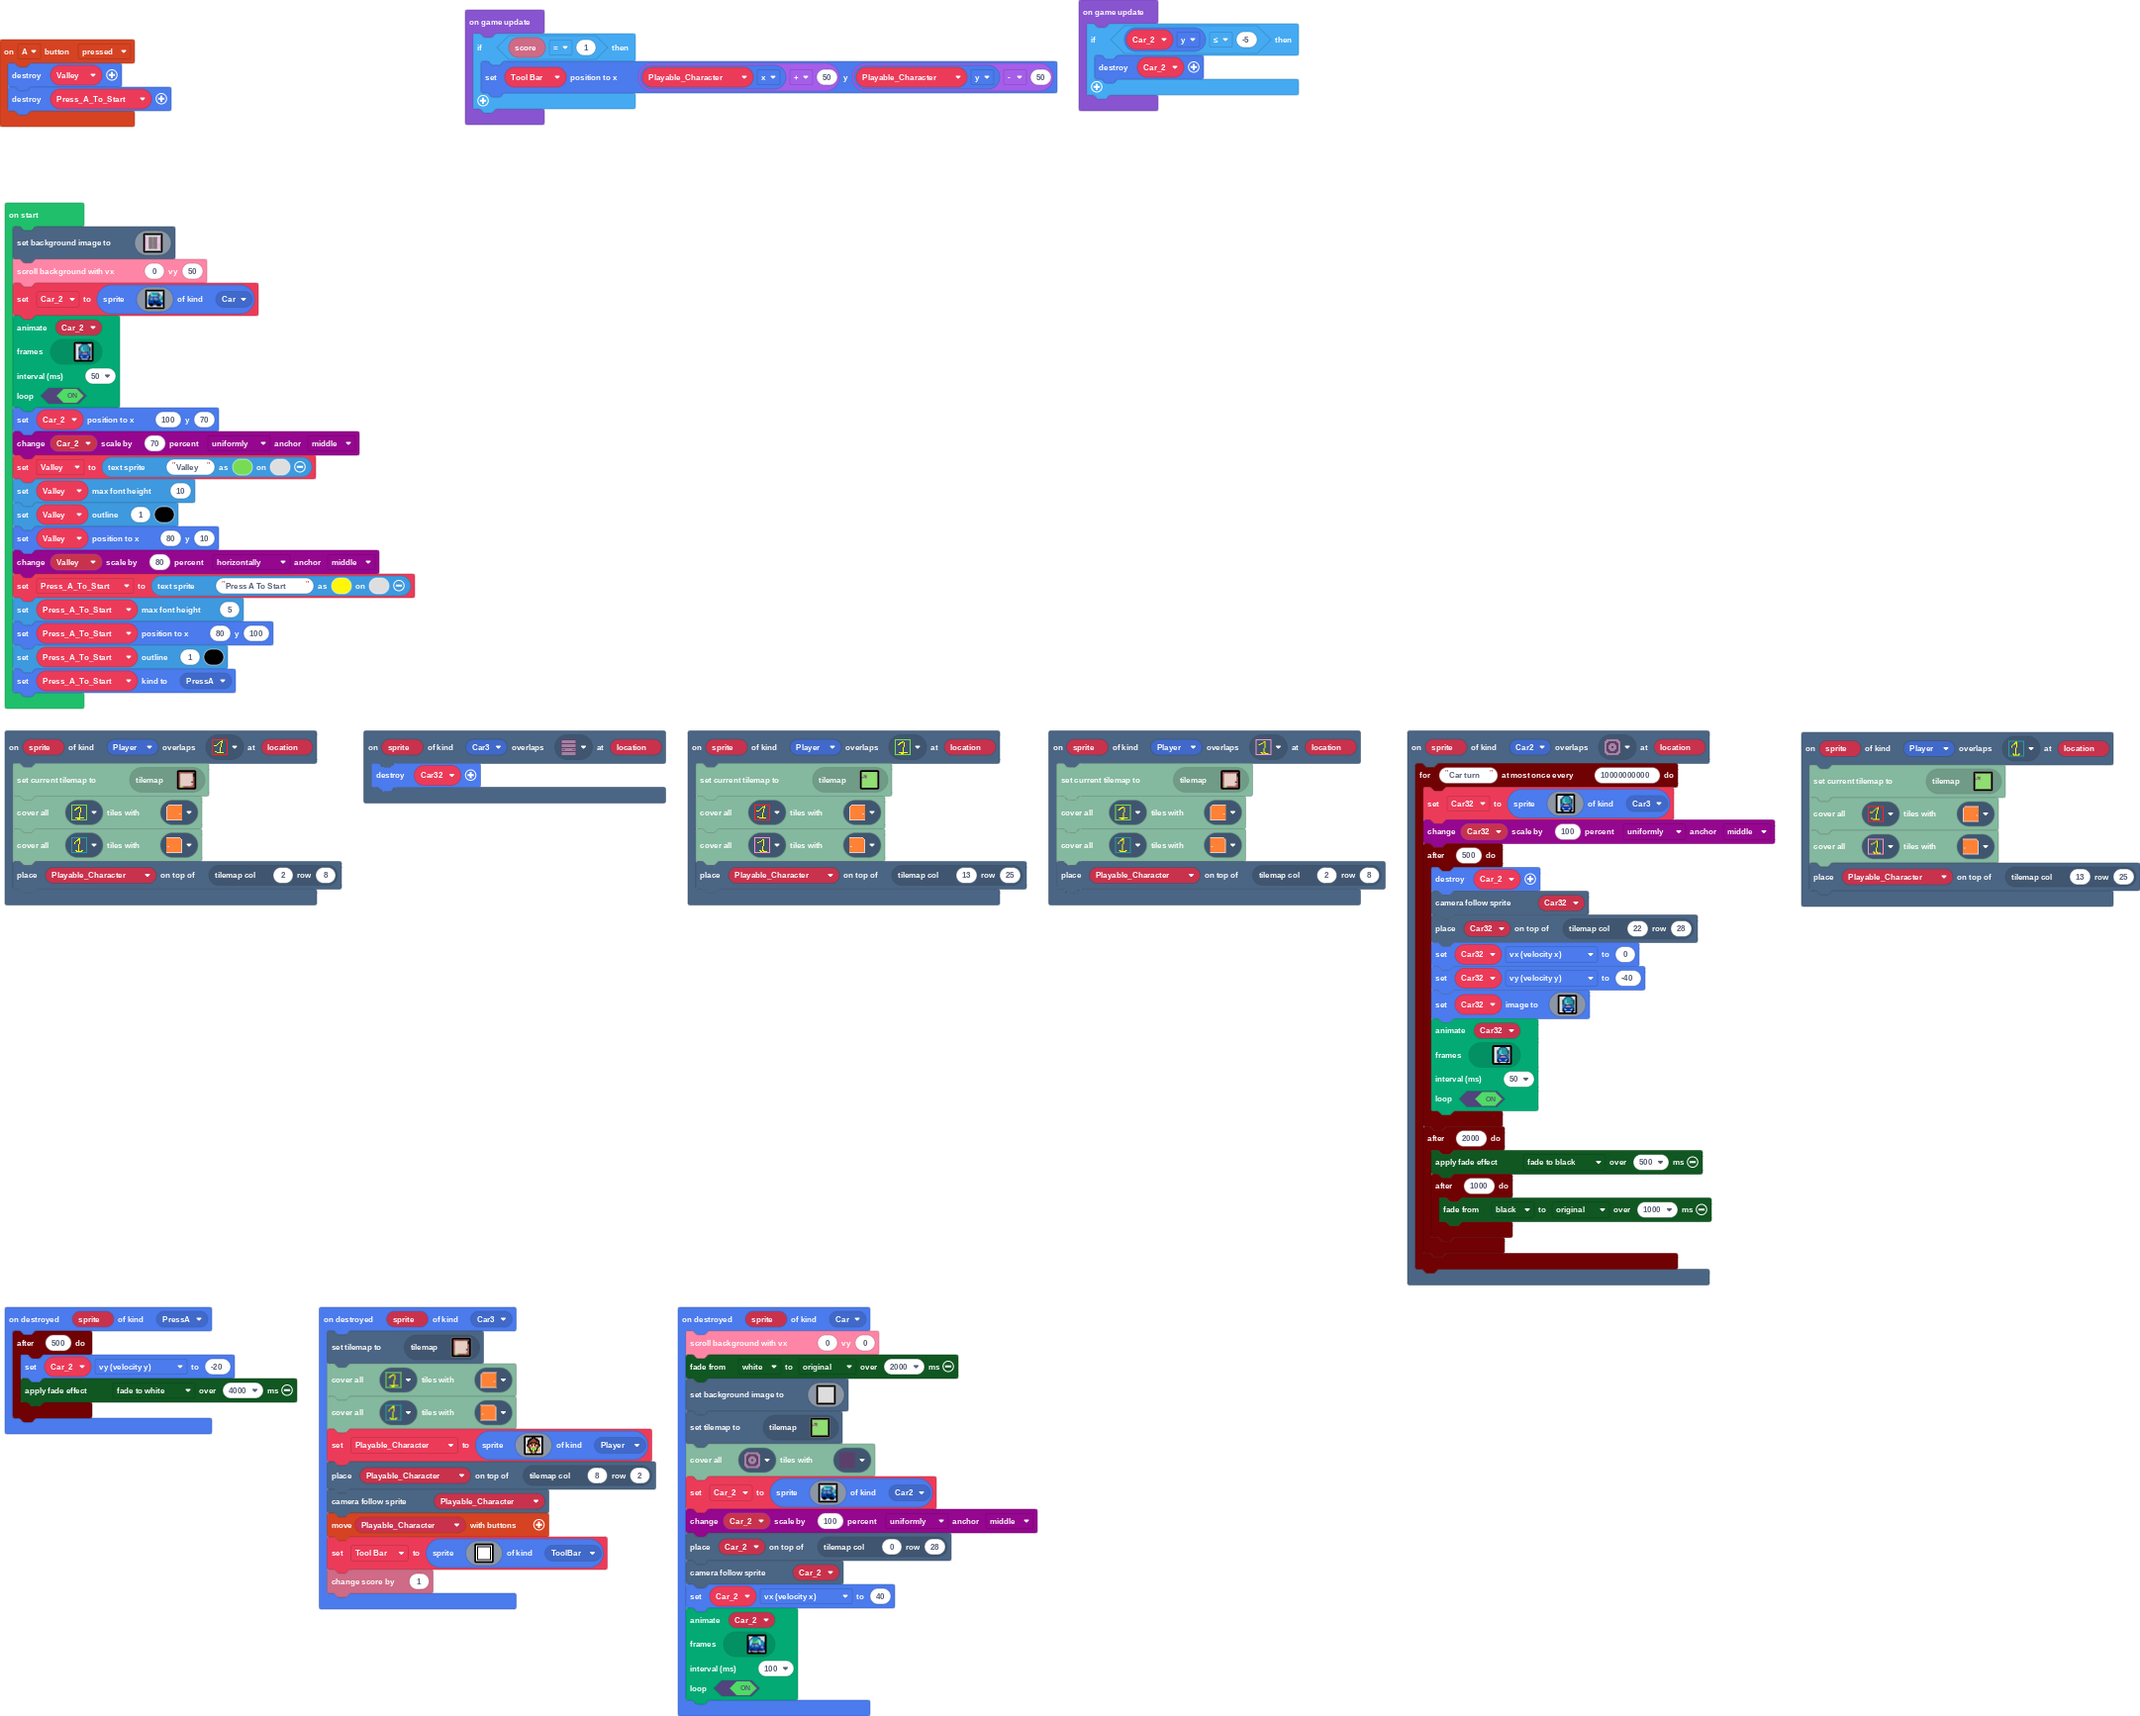
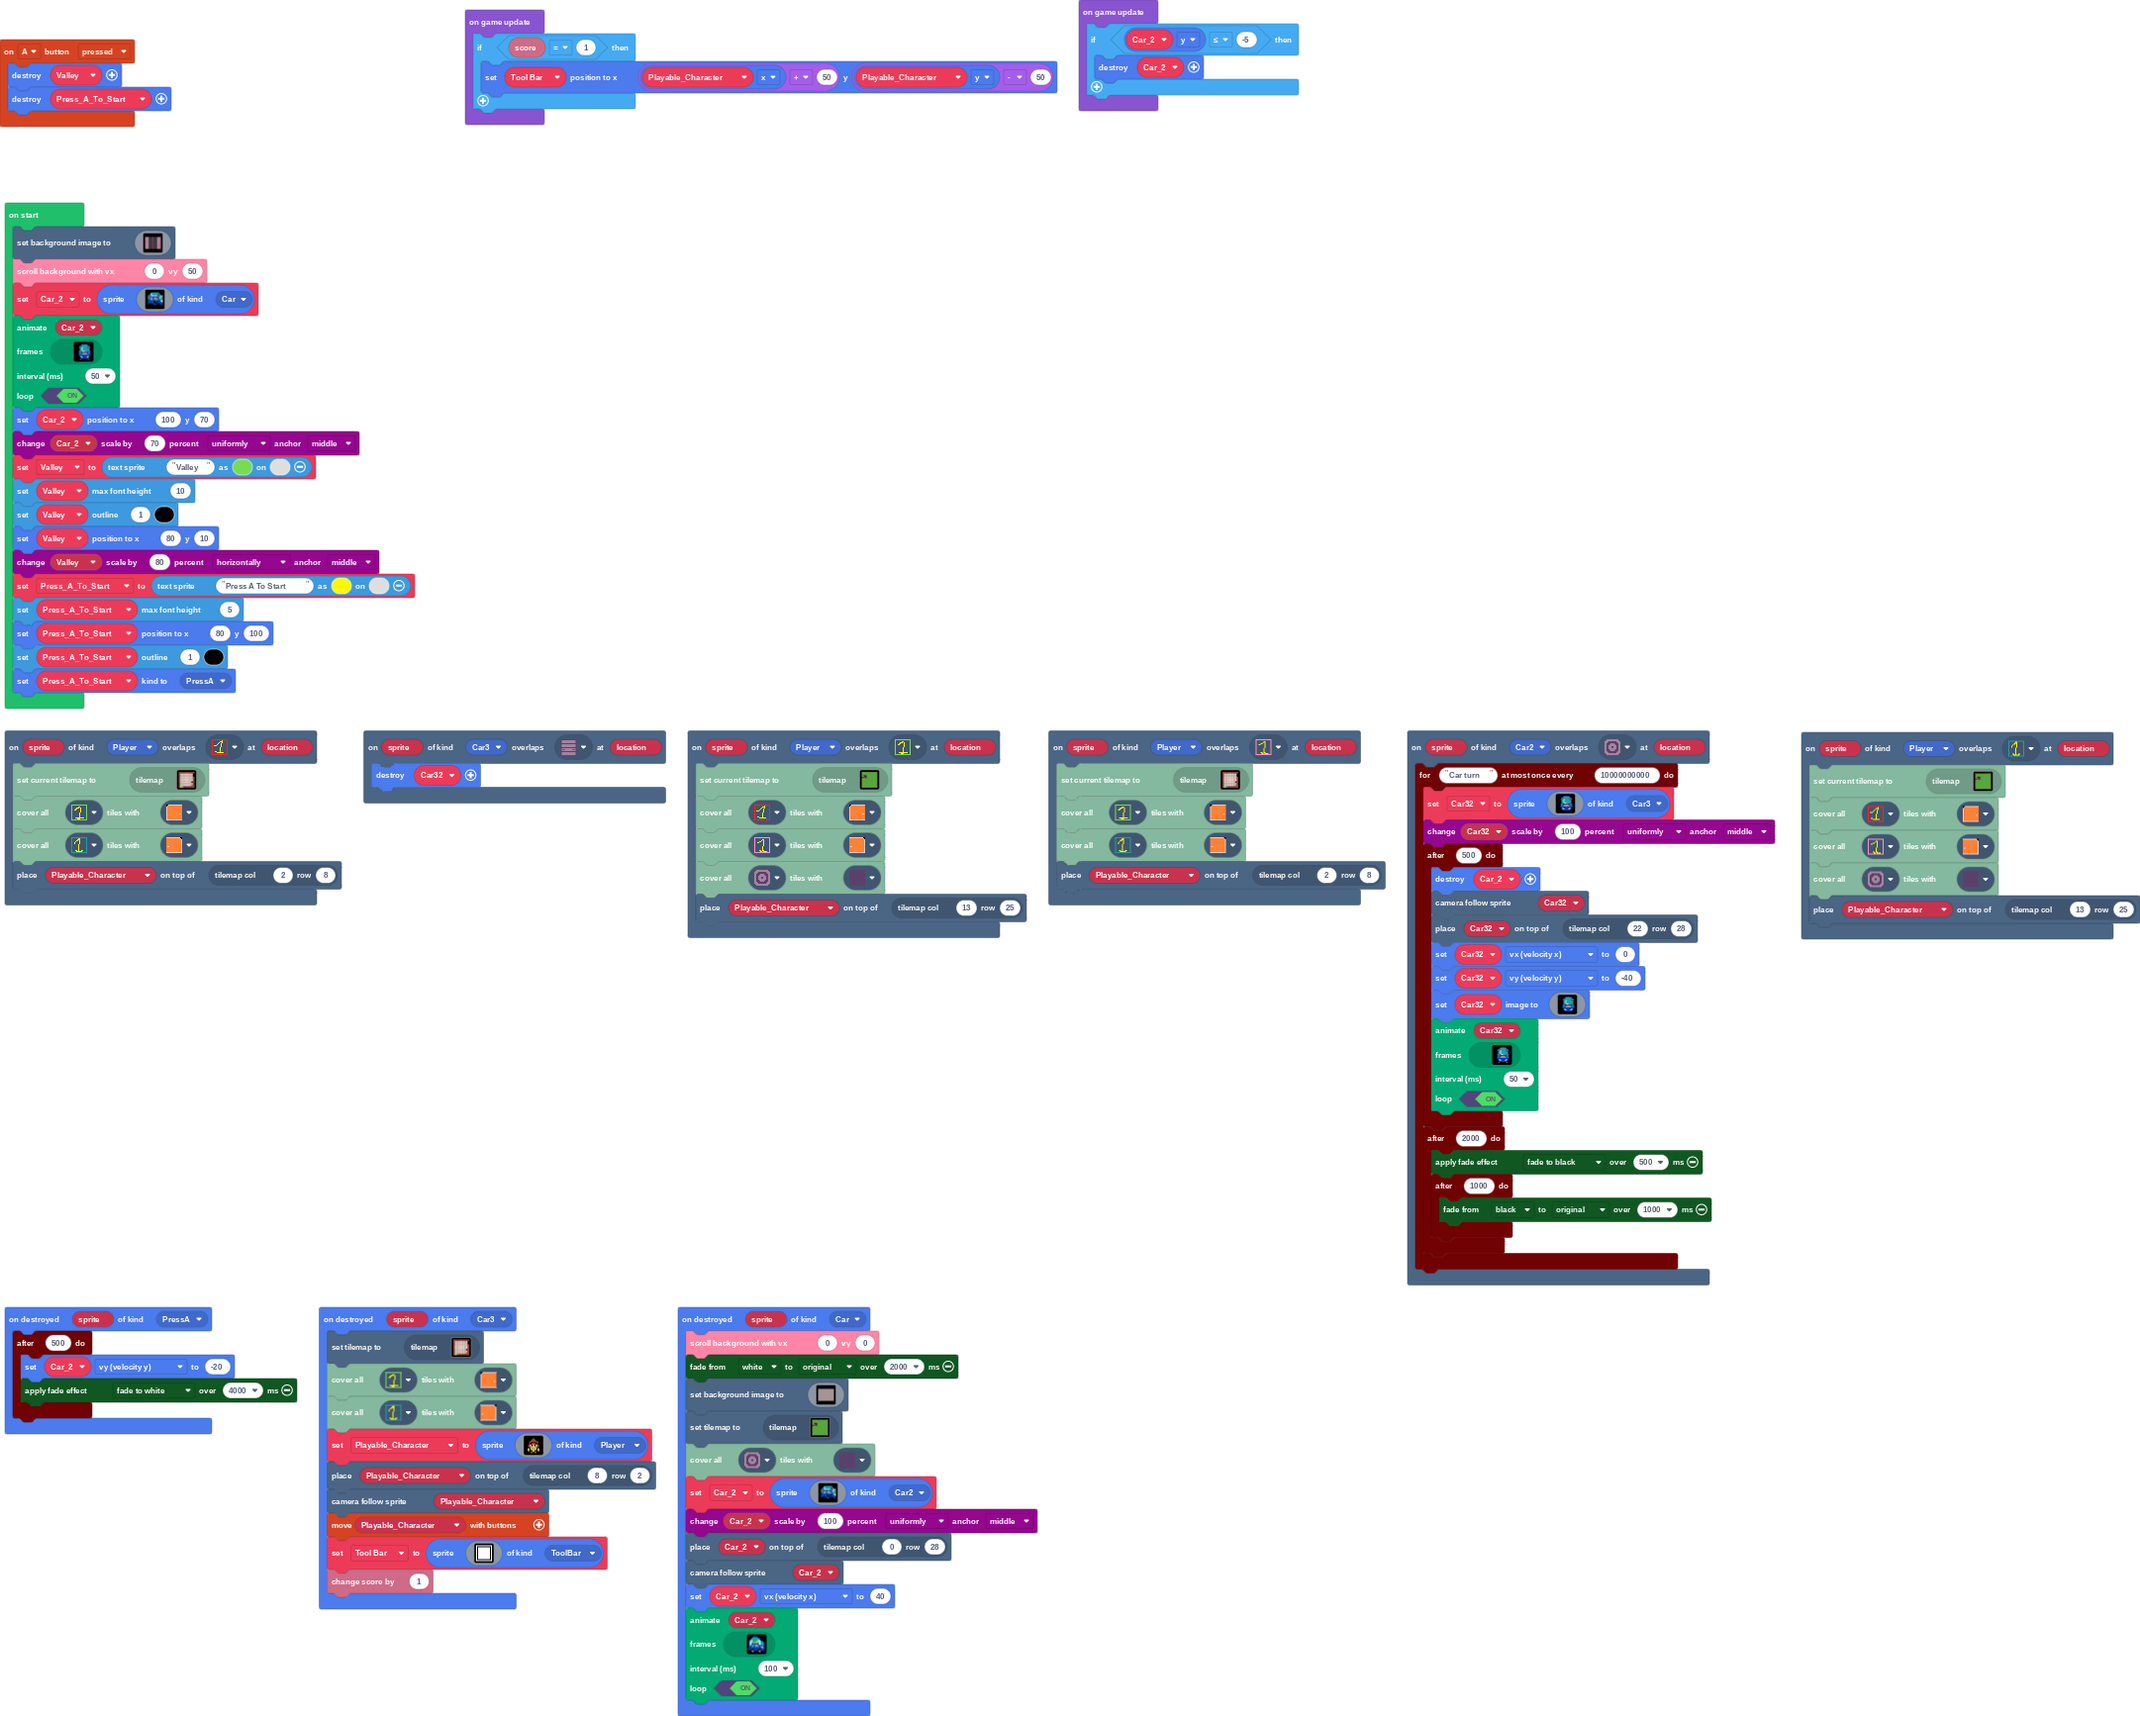
Update main.blocks, main.ts

Changed region(s): [[0.8367, 0.4983, 1.0, 0.5606], [0.3099, 0.4983, 0.4958, 0.5606], [0.3719, 0.8097, 0.4029, 0.8408]]

diff --git a/main.ts b/main.ts
@@ -10,6 +10,7 @@ scene.onOverlapTile(SpriteKind.Player, assets.tile`Outdoor Right`, function (spr
     tiles.loadMap(tiles.createMap(tilemap`level1`))
     tiles.coverAllTiles(assets.tile`Indoor Left`, assets.tile`myTile21`)
     tiles.coverAllTiles(assets.tile`Indoor Right`, assets.tile`myTile22`)
+    tiles.coverAllTiles(assets.tile`Rotater`, assets.tile`myTile1`)
     tiles.placeOnTile(Playable_Character, tiles.getTileLocation(13, 25))
 })
 scene.onOverlapTile(SpriteKind.Car3, assets.tile`myTile2`, function (sprite, location) {
@@ -86,6 +87,7 @@ scene.onOverlapTile(SpriteKind.Player, assets.tile`Outdoor Left`, function (spri
     tiles.loadMap(tiles.createMap(tilemap`level1`))
     tiles.coverAllTiles(assets.tile`Indoor Left`, assets.tile`myTile21`)
     tiles.coverAllTiles(assets.tile`Indoor Right`, assets.tile`myTile22`)
+    tiles.coverAllTiles(assets.tile`Rotater`, assets.tile`myTile1`)
     tiles.placeOnTile(Playable_Character, tiles.getTileLocation(13, 25))
 })
 sprites.onDestroyed(SpriteKind.Car, function (sprite) {
